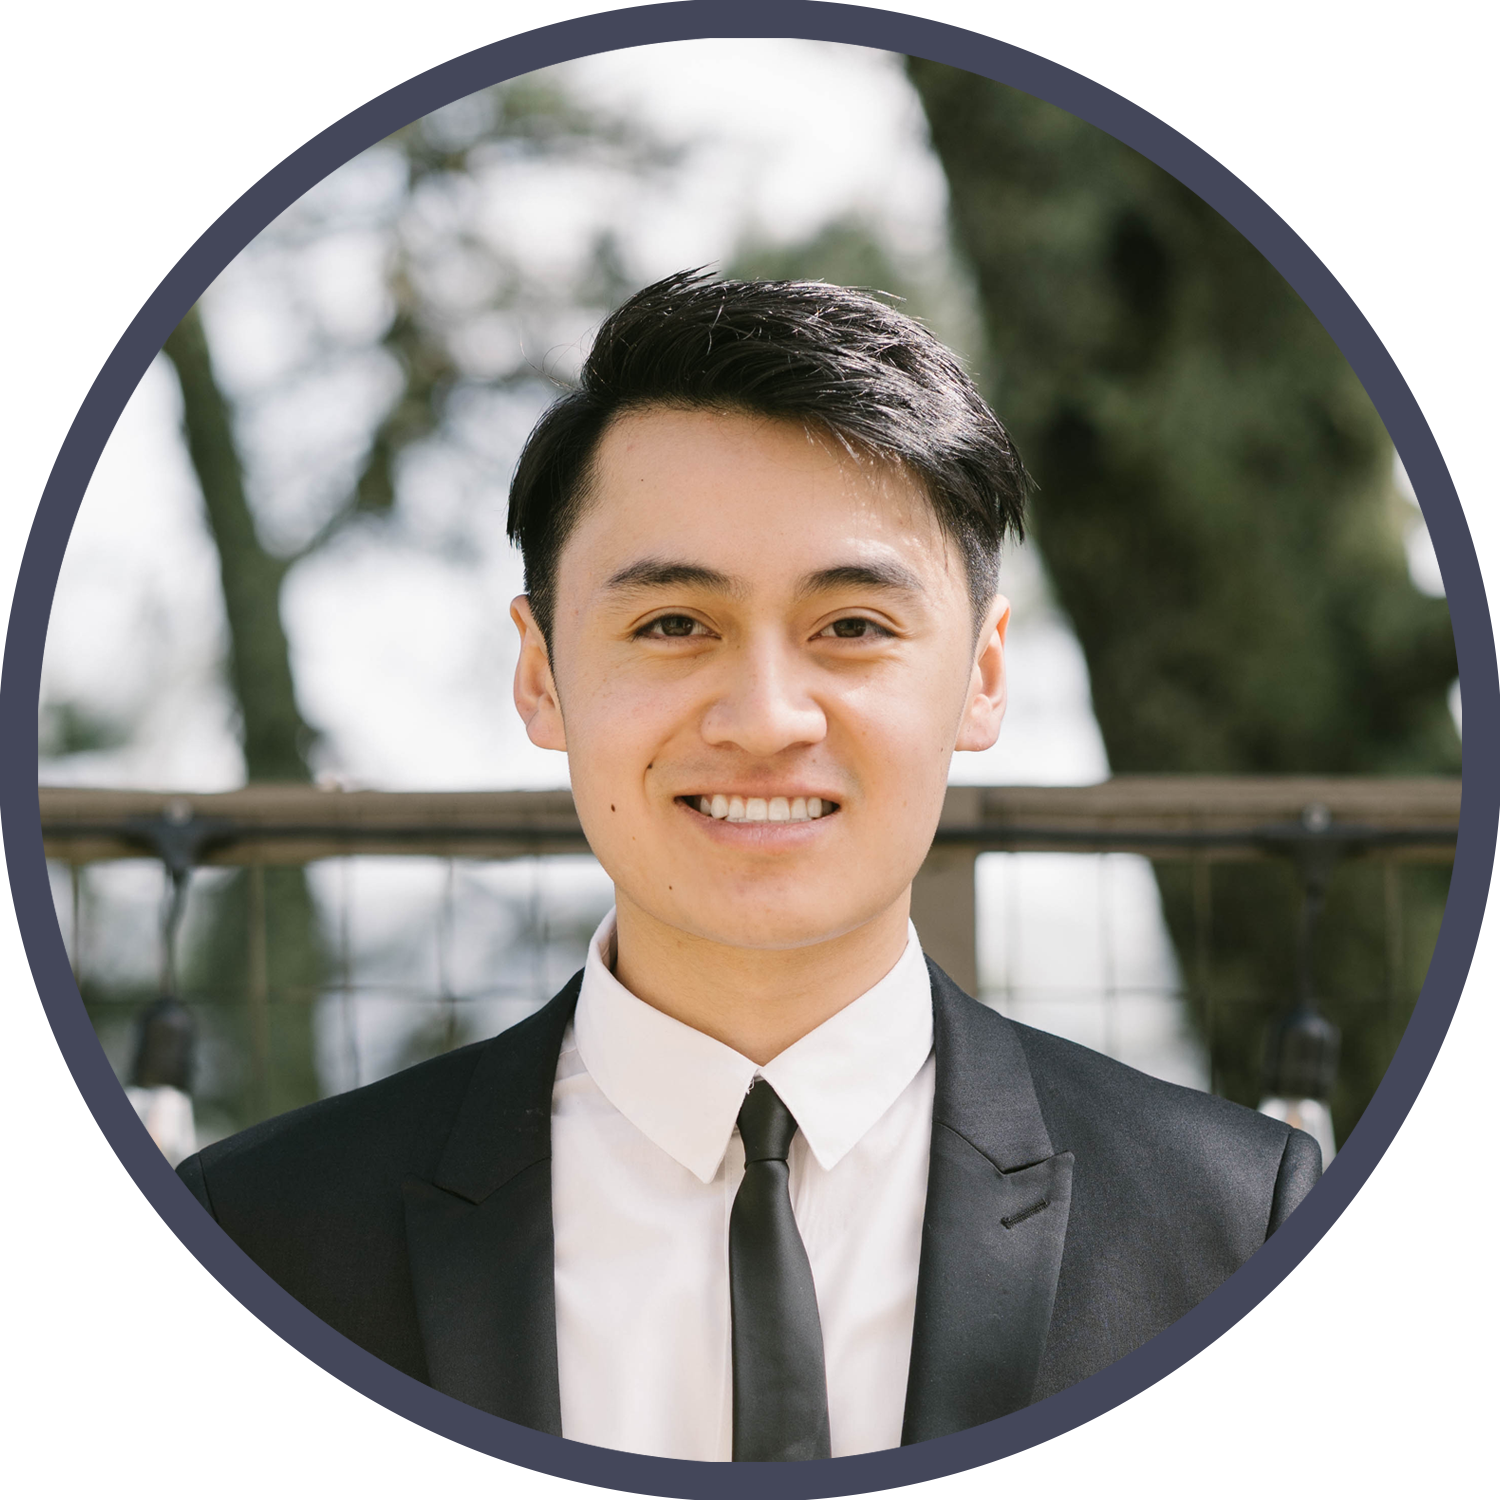
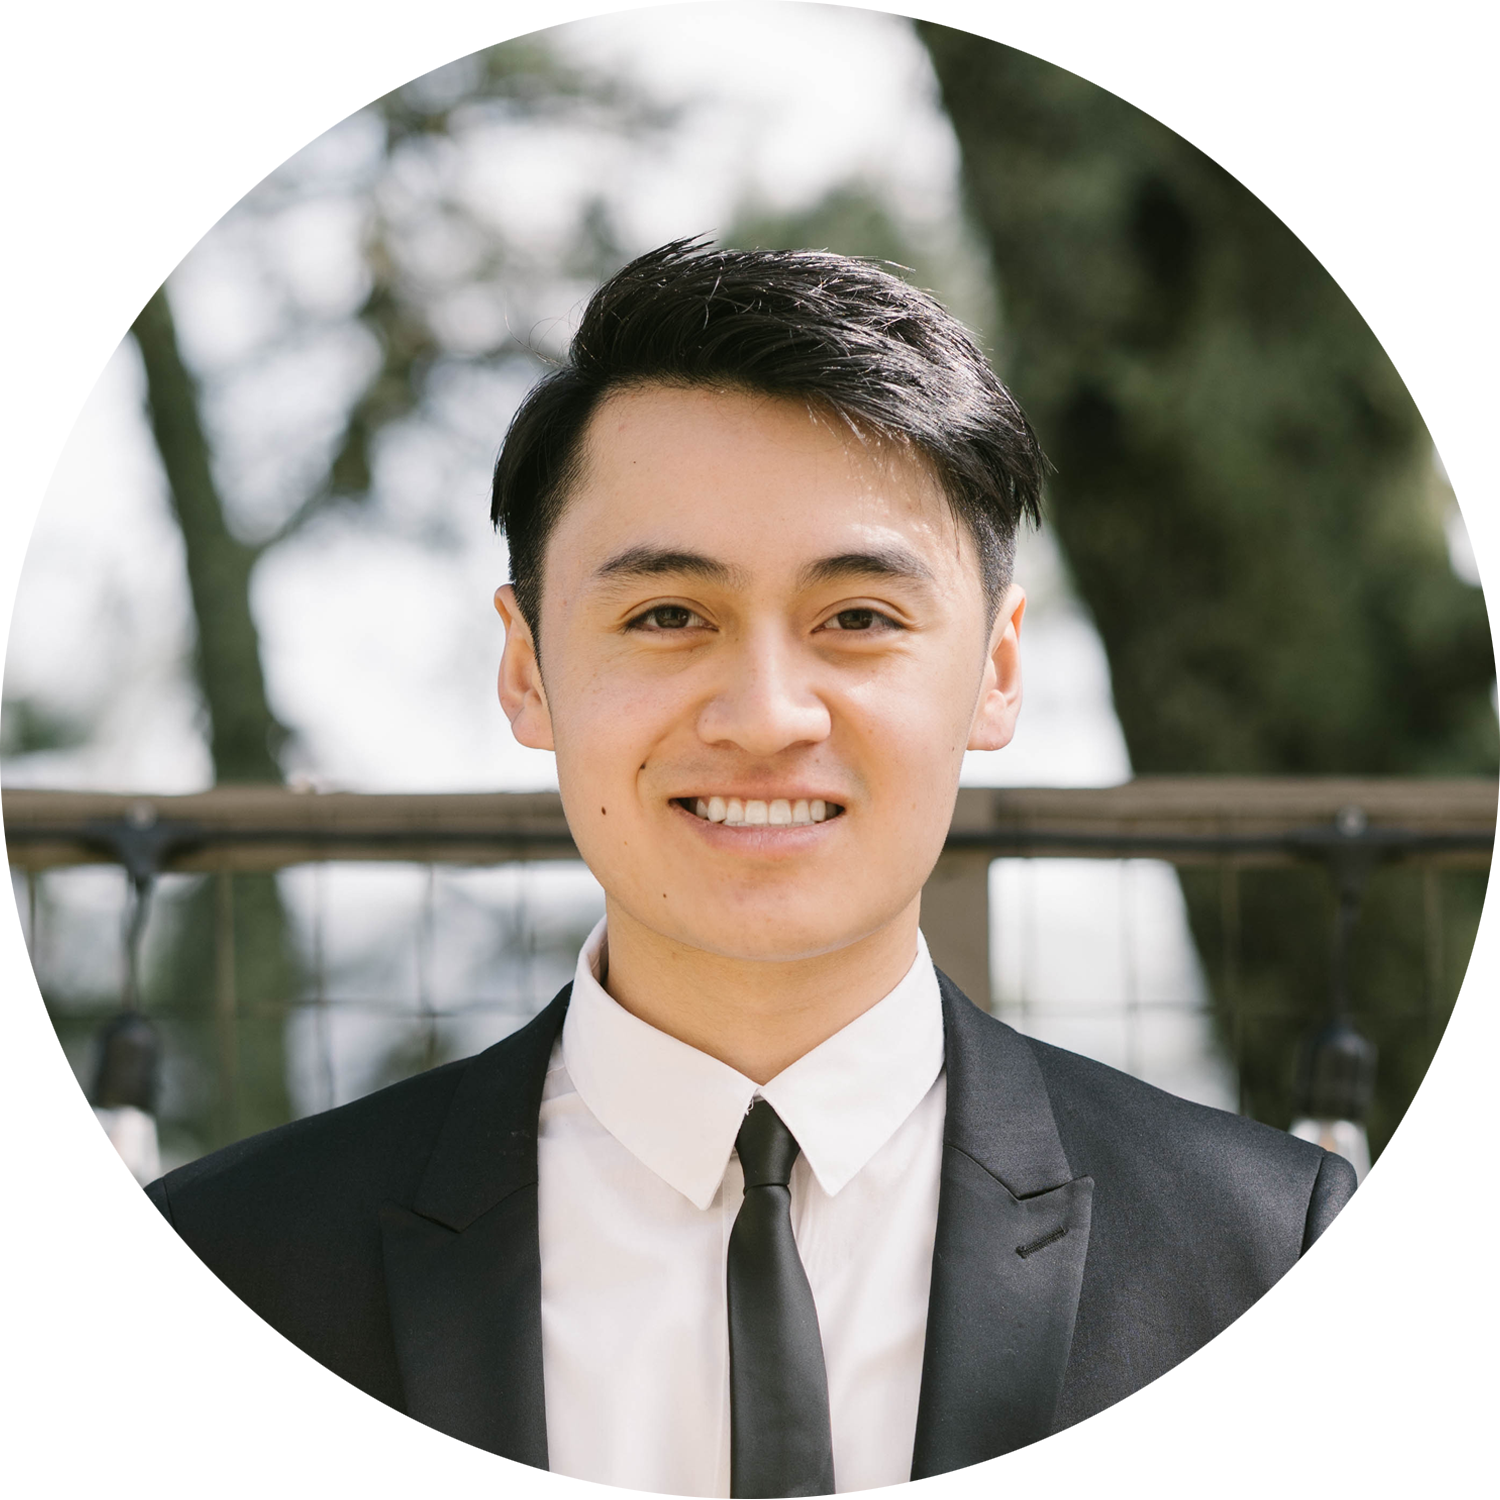
updated the headshot & added better spacing

diff --git a/src/pages/Home/Home.js b/src/pages/Home/Home.js
@@ -7,6 +7,7 @@ import "./Home.css";
 function Home() {
     const isTabletOrMobile = useMediaQuery({ query: '(max-width: 768px)' });
     const isPortrait = useMediaQuery({ query: '(orientation: portrait)' });
+    const traits = ["software engineer", "photographer", "music lover", "gamer"];
 
     return (
         <div>
@@ -15,7 +16,7 @@ function Home() {
                     <div className="eyeCatcherMobile">
                         <h1>Hi there!</h1>
                         <h1>My name is Neil.</h1>
-                        <h2>I'm a front end developer based in the Bay Area.</h2>
+                        <h2>I'm a software engineer based in the Bay Area.</h2>
                         <h2>Let's make something great.</h2>
                     </div>
                 </div>
